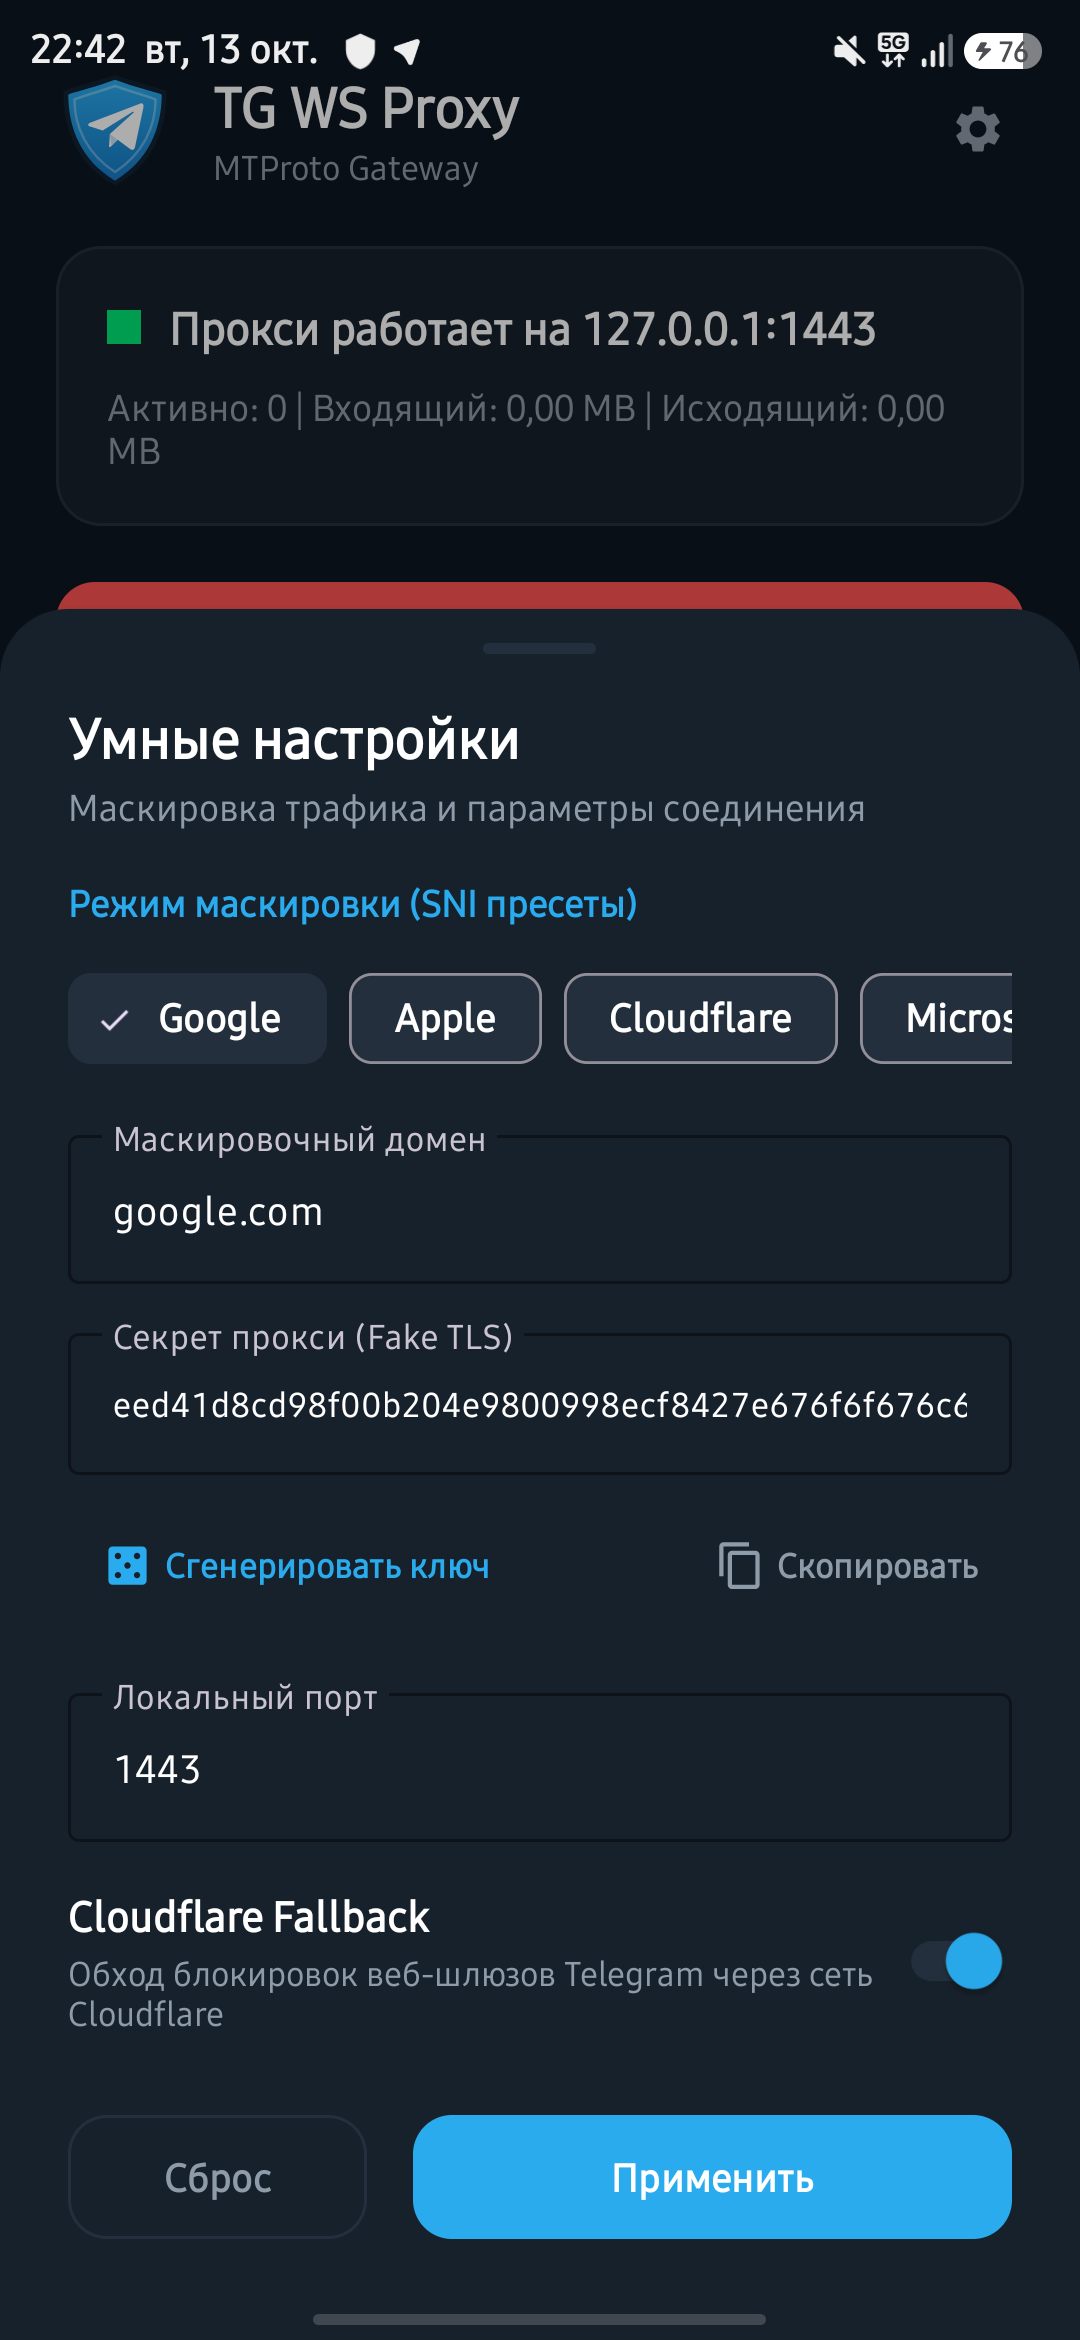
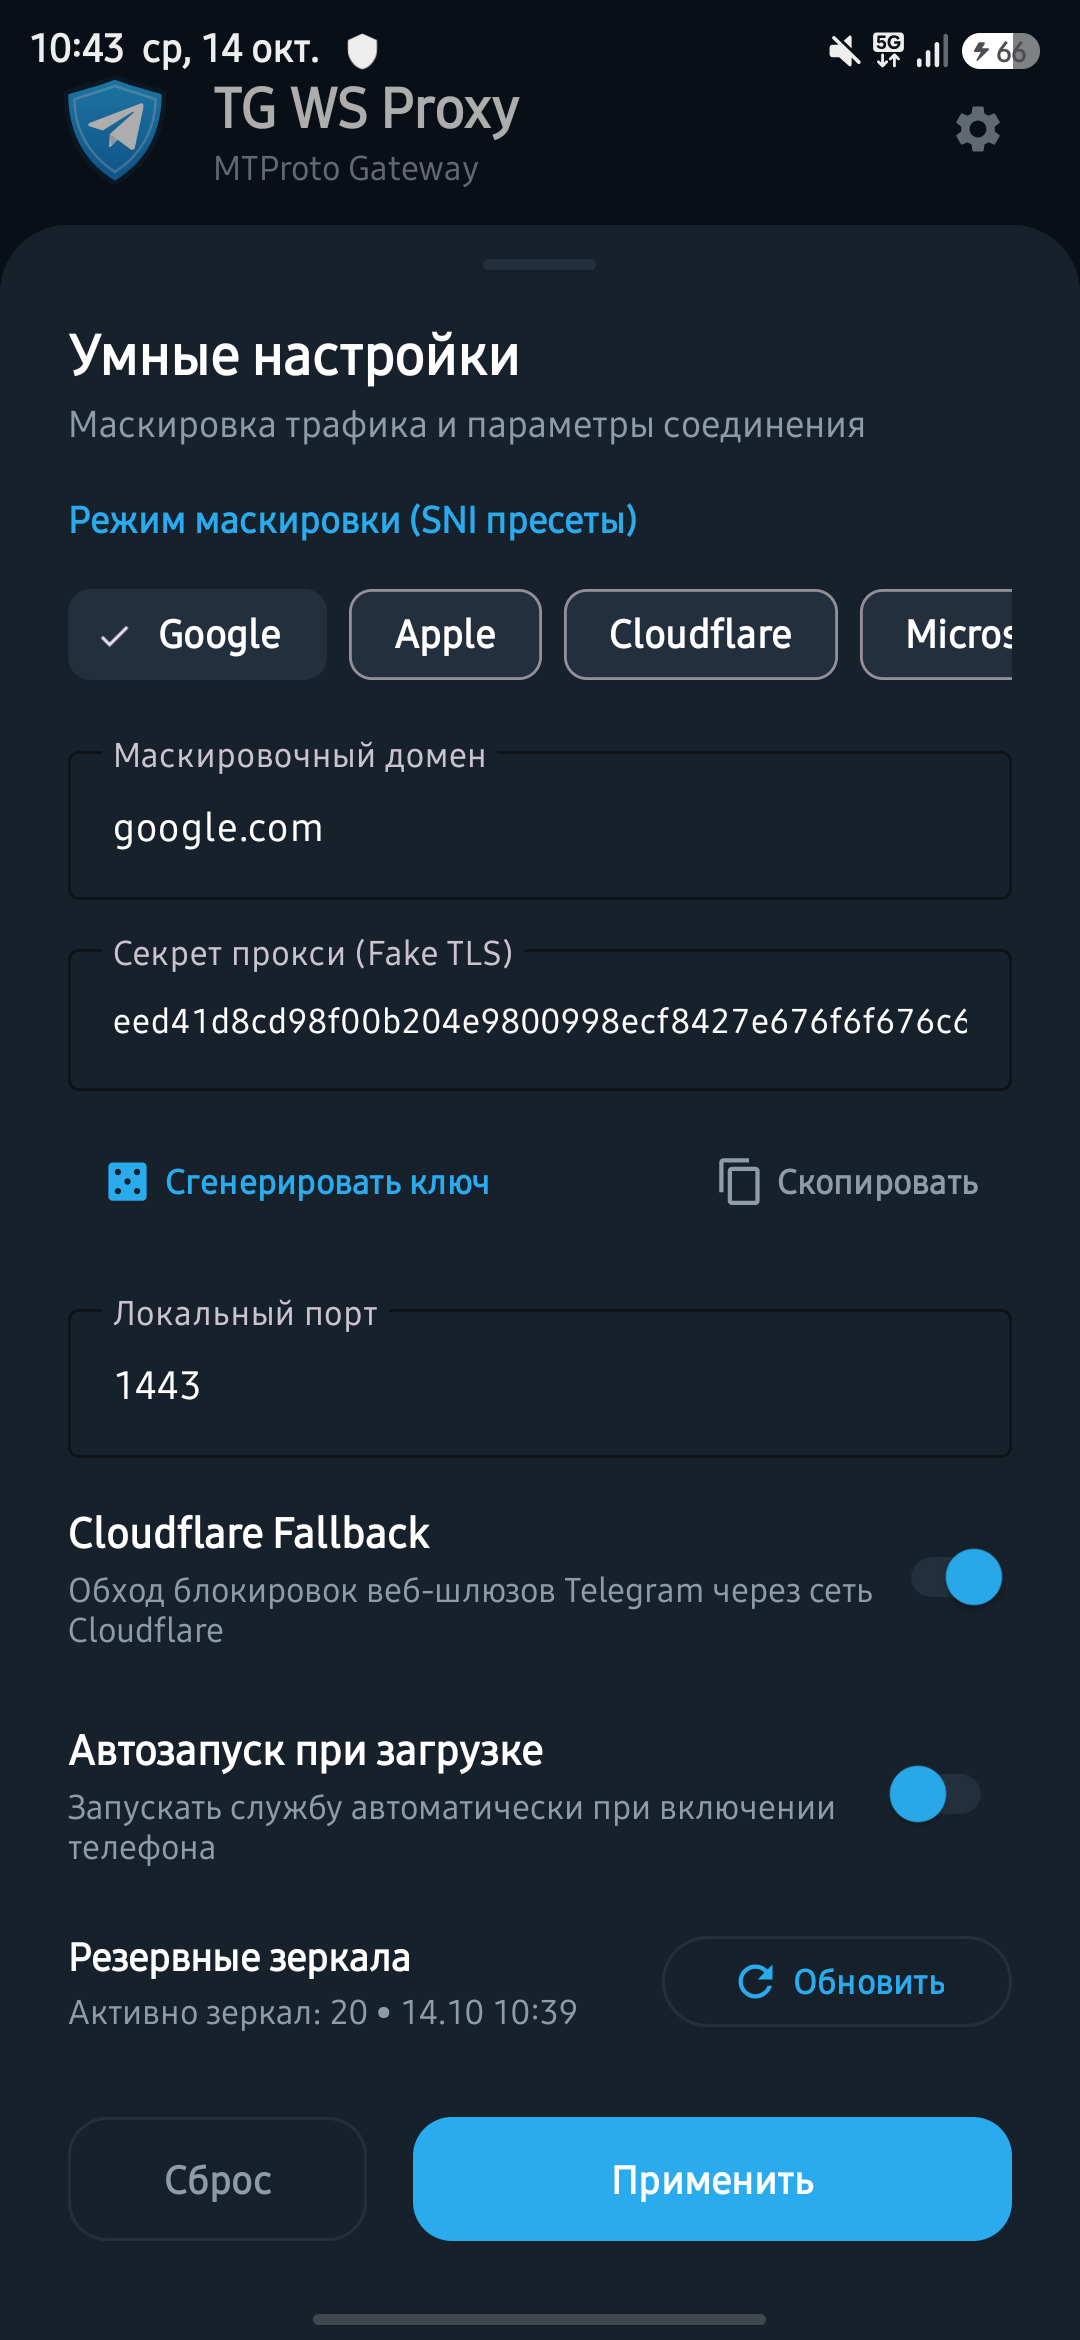
feat(ui): add local bridge state and contextual hints to gateway diagnostics

diff --git a/android/app/src/main/java/org/flowseal/tgwsproxy/ui/MainActivity.kt b/android/app/src/main/java/org/flowseal/tgwsproxy/ui/MainActivity.kt
@@ -96,6 +96,7 @@ class MainActivity : AppCompatActivity() {
     }
 
     private fun runGatewayDiagnostics() {
+        updateUiRunningState(TgWsProxyService.isRunning.value)
         binding.btnCheckPing.isEnabled = false
         binding.tvDc2Ping.text = "..."
         binding.tvDc4Ping.text = "..."
@@ -227,13 +228,26 @@ class MainActivity : AppCompatActivity() {
             binding.btnToggleProxy.text = getString(R.string.btn_stop)
             binding.btnToggleProxy.setIconResource(R.drawable.ic_stop)
             binding.btnToggleProxy.backgroundTintList = ContextCompat.getColorStateList(this, R.color.status_inactive)
+
+            binding.dotLocalProxy.setBackgroundColor(android.graphics.Color.parseColor("#4CAF50"))
+            binding.tvLocalProxyStatus.text = "Активен"
+            binding.tvLocalProxyStatus.setTextColor(android.graphics.Color.parseColor("#4CAF50"))
+            binding.tvDiagnosticHint.text = "✅ Прокси активен на 127.0.0.1:$port. Трафик Telegram защищён и направлен через веб-шлюзы."
+            binding.tvDiagnosticHint.setTextColor(android.graphics.Color.parseColor("#8BC34A"))
         } else {
             binding.viewStatusDot.setBackgroundColor(ContextCompat.getColor(this, R.color.status_inactive))
             binding.tvStatusTitle.text = getString(R.string.status_stopped)
             binding.btnToggleProxy.text = getString(R.string.btn_start)
             binding.btnToggleProxy.setIconResource(R.drawable.ic_play)
             binding.btnToggleProxy.backgroundTintList = ContextCompat.getColorStateList(this, R.color.primary)
+
+            binding.dotLocalProxy.setBackgroundColor(ContextCompat.getColor(this, R.color.status_inactive))
+            binding.tvLocalProxyStatus.text = "Остановлен"
+            binding.tvLocalProxyStatus.setTextColor(ContextCompat.getColor(this, R.color.text_secondary))
+            binding.tvDiagnosticHint.text = "ℹ Шлюзы на связи. Для работы Telegram запустите прокси кнопкой выше."
+            binding.tvDiagnosticHint.setTextColor(ContextCompat.getColor(this, R.color.text_secondary))
         }
+        binding.tvLocalProxyTitle.text = "Локальный мост (127.0.0.1:$port)"
     }
 
     private fun updateSettingsSummary() {
@@ -245,6 +259,7 @@ class MainActivity : AppCompatActivity() {
 
         binding.tvSettingsSummaryDomain.text = "Маскировка (SNI): $currentDomain ($presetName)"
         binding.tvSettingsSummaryPort.text = "Порт: $port • Cloudflare Fallback: $cfStatus"
+        binding.tvLocalProxyTitle.text = "Локальный мост (127.0.0.1:$port)"
     }
 
     private fun showSmartSettingsDialog() {
